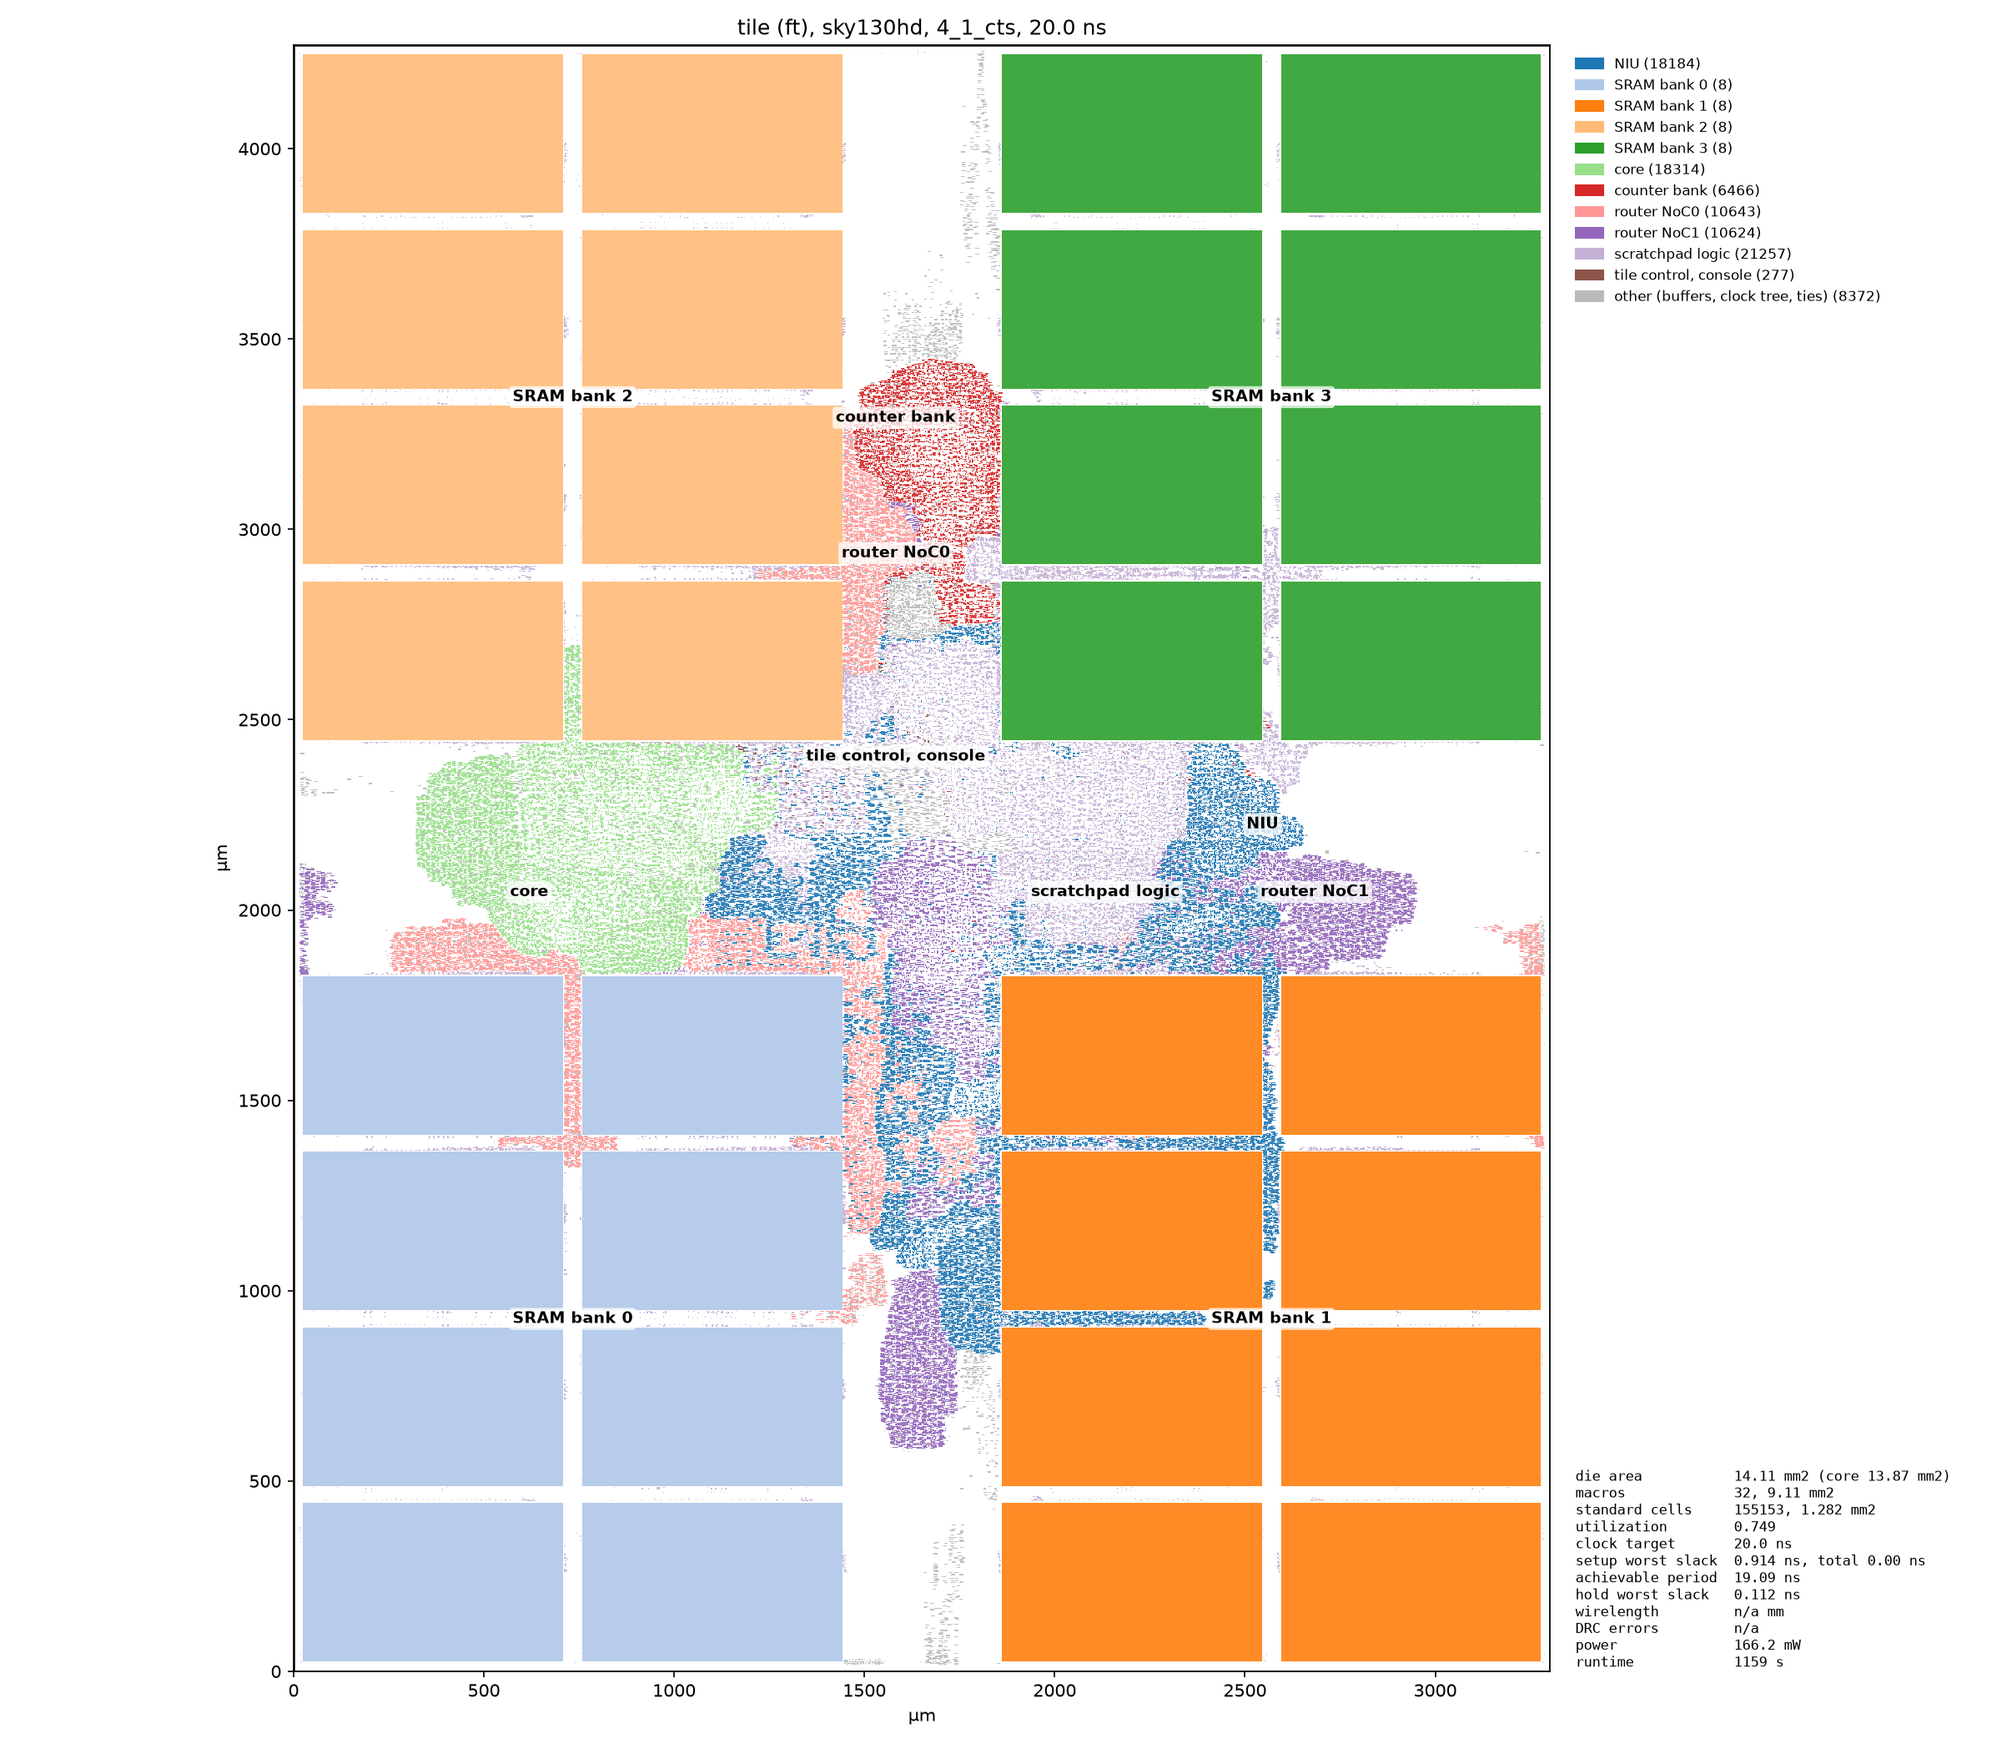
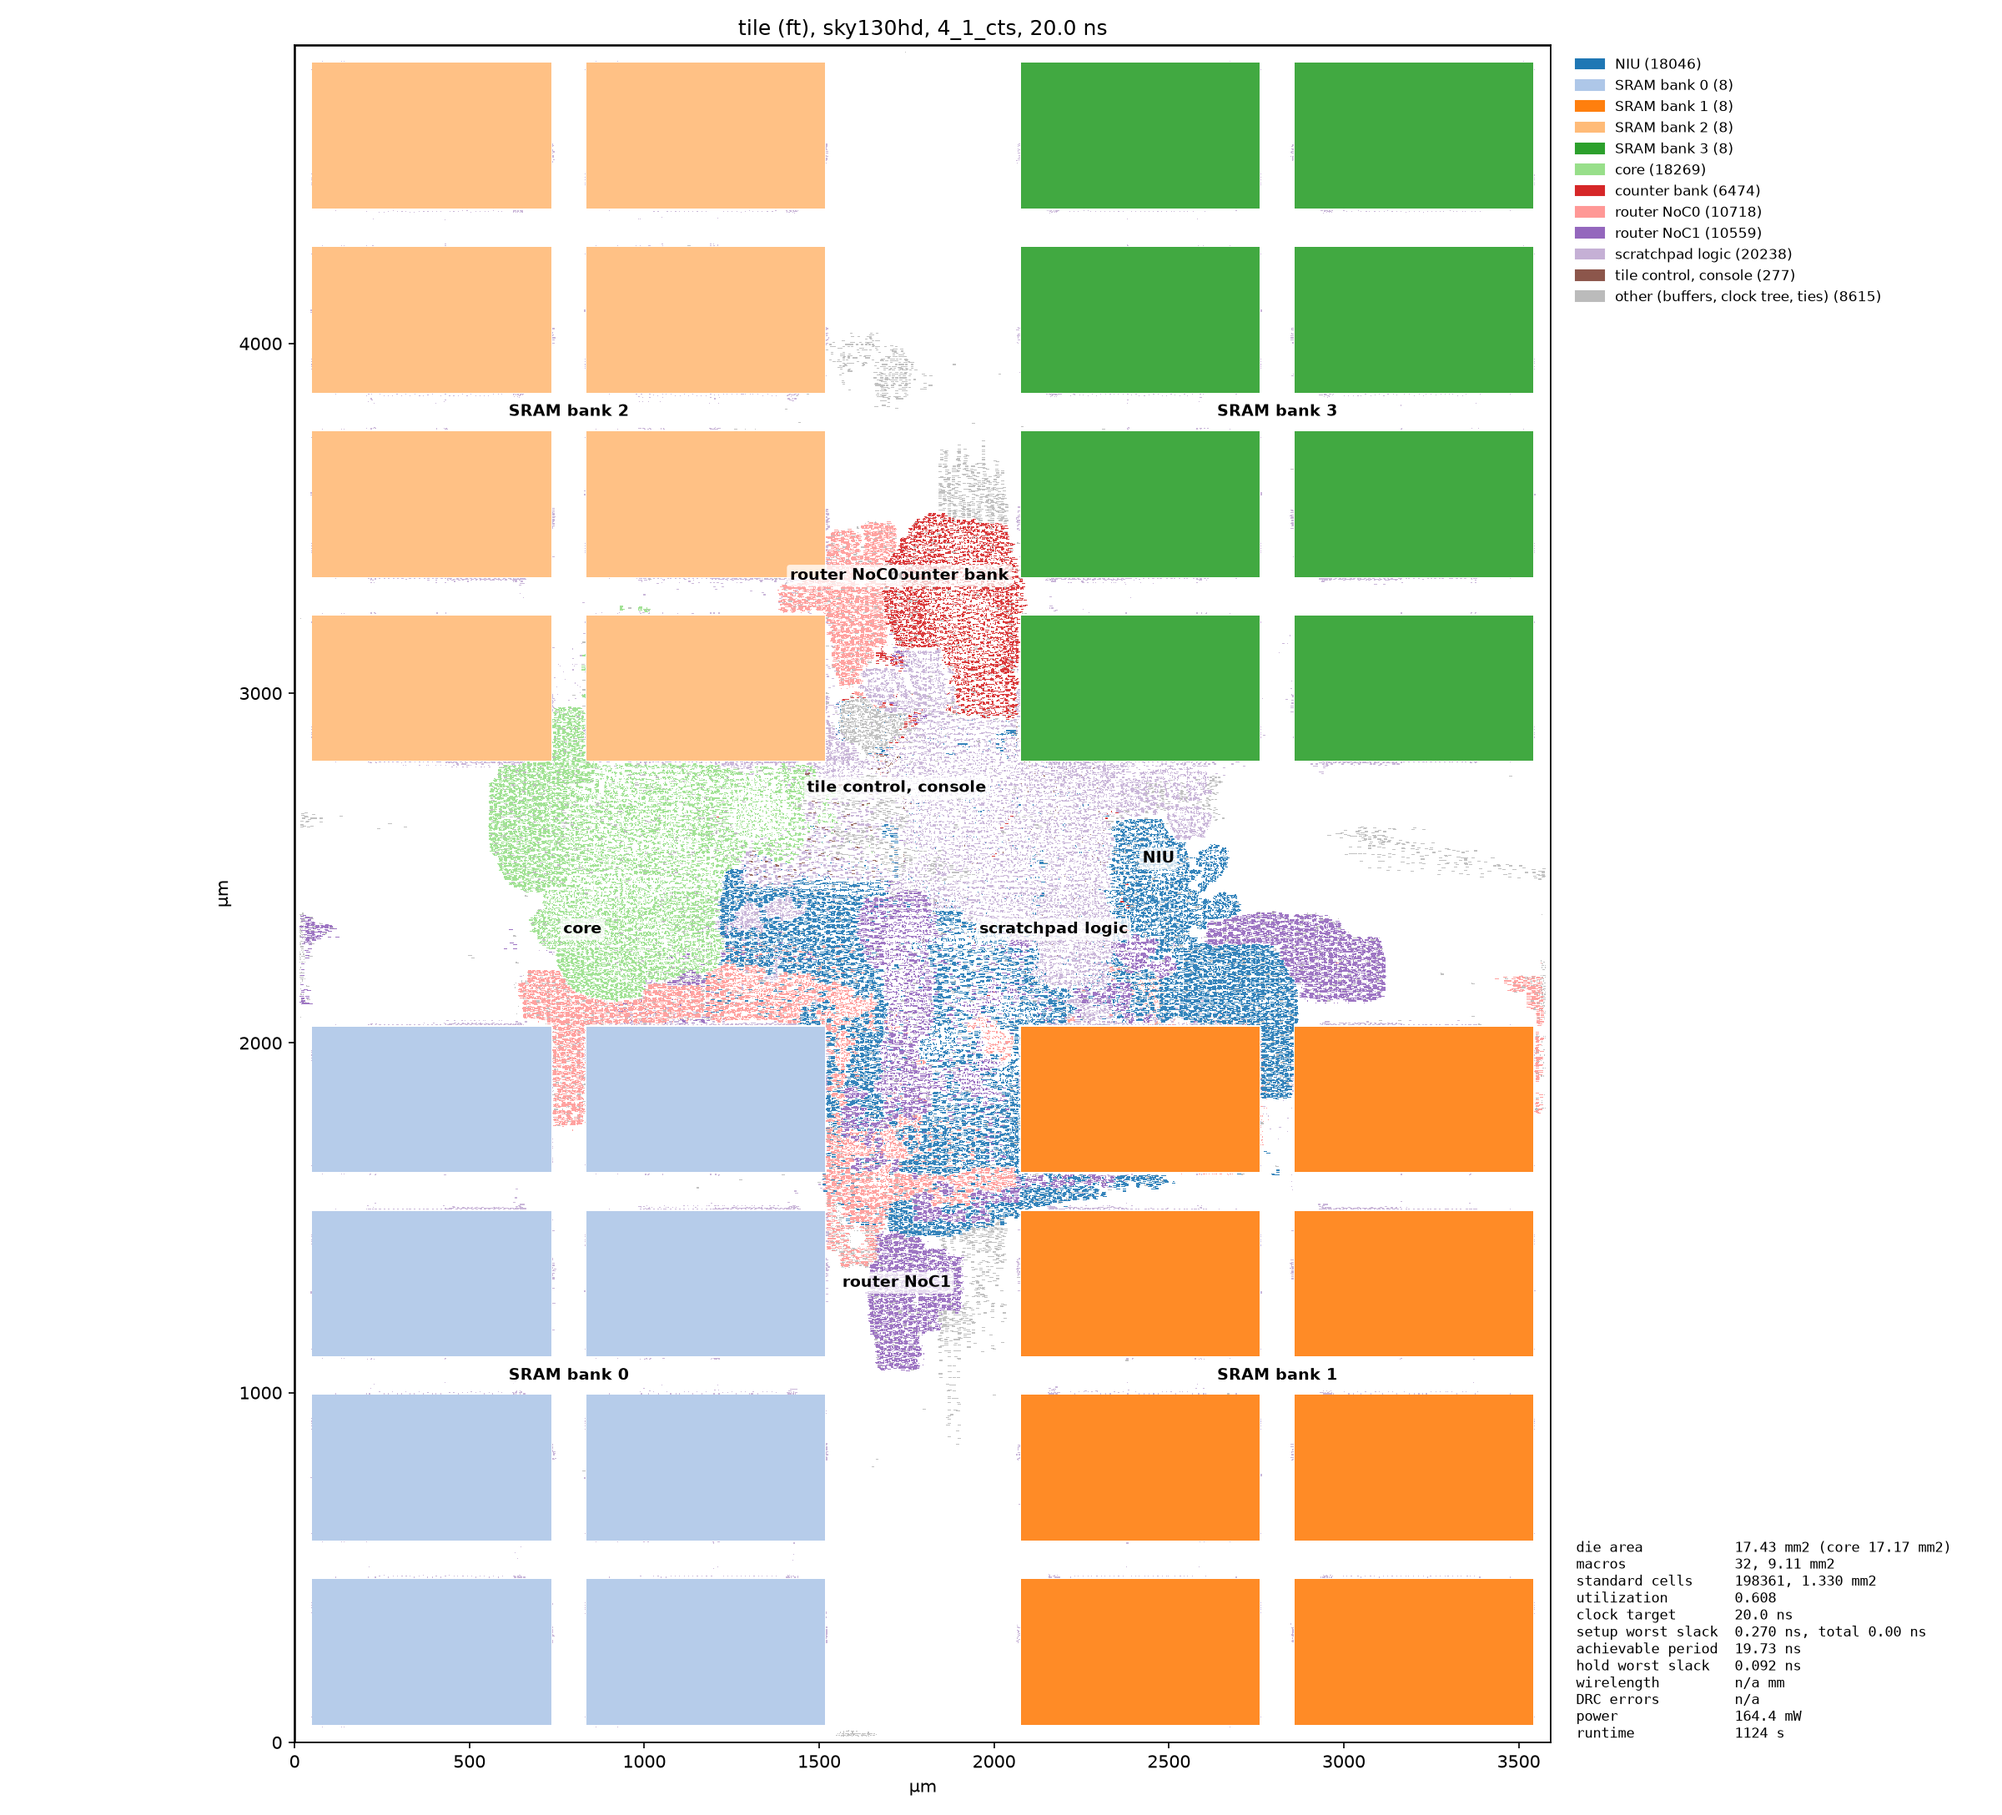
M5: tile routing closure attempts, recorded
Global routing of the tile does not converge: about 0.6% overflow remains,
three quarters of it over the macros (OpenRAM macros obstruct met1-met4,
so spilled wires find only met5 there), and detailed routing rejects the
incomplete guides of an overflowed global route. Wider arms (640/860 um) and
macro-row gaps (110 um) did not fix it (tile 17.4 mm2, still meets 20 ns at
CTS); the analysis and the untried levers are in SPEC.md. The cross floorplan
keeps a 35 um macro inset so every edge gap holds a power strap.

Changed region(s): [[0.125, 0.0, 0.9688, 0.9952]]

diff --git a/SPEC.md b/SPEC.md
@@ -441,7 +441,7 @@ Progress (2026-11-18): M3 done. Both planes run in the SoC with the plane fixed 
 
 Progress (2026-11-18): M4 done; buffer columns deferred (none for now, analysis in Open decisions). Performance model v1 simulates the network flit by flit and matches the RTL network cycle-exactly (every flit's send and ejection cycle, regression). Head-of-line blocking: B, C, deeper buffers, the critical bubble scheme and dateline VCs prototyped on 4x4 and 8x8; none wins across patterns (removing head-of-line blocking exposes bubble-rule injection starvation), so the router is unchanged. The SoC runs at 8x8 (multithreaded model, 4.7 kHz at 8 threads with idle cores); memcpy, Cannon, the new stencil and all-reduce kernels are bit-exact there, with exact per-link counts and the model within 1.5% for compute-bound kernels. Weak scaling 4x4 to 8x8: stencil 99.7%, Cannon 98.3%. Kernel load by a software tree: 1.6x to 2.5x faster at 8x8. Area: the tool image carries sky130 standard cells; a tile is 0.77 mm² of logic plus about 9 mm² of OpenRAM SRAM for its 64 KB.
 
-Progress (2026-11-19): M5 in progress. The tool image builds OpenROAD from source; the tile is placed in sky130 with its 64 KB as 32 OpenRAM macros (hand "cross" floorplan, 14.1 mm², meets 20 ns at CTS after two zero-cycle fixes to the core → scratchpad path). Hard tiles get feedthroughs, wired per placed order by soc_top FT_ORDER (verified transparent by the regression). Logical against folded order on 4x4: longest link 19.4 against 6.1 mm, worst link path 14.9 against 10.5 ns; no register slices needed at the tile's clock in either order. Next: the routed tile and the M7 baseline table.
+Progress (2026-11-19): M5 in progress. The tool image builds OpenROAD from source; the tile is placed in sky130 with its 64 KB as 32 OpenRAM macros (hand "cross" floorplan, 14.1 mm², meets 20 ns at CTS after two zero-cycle fixes to the core → scratchpad path). Hard tiles get feedthroughs, wired per placed order by soc_top FT_ORDER (verified transparent by the regression). Logical against folded order on 4x4: longest link 19.4 against 6.1 mm, worst link path 14.9 against 10.5 ns; no register slices needed at the tile's clock in either order. Tile routing does not close in sky130 yet (0.6% global-route overflow over the macros; analysis in the M5 list), so the routed tile and the activity-based energy numbers for the M7 baseline stay open.
 
 Keep every exit test in the regression once it passes, so later milestones cannot silently break earlier ones.
 
@@ -627,7 +627,9 @@ Each microtask is small (about a day or two) and ends in something tangible: a t
 ### M5: place and route
 
 - [x] OpenROAD and the sky130 PDK in the tool image → versions pinned, CI builds the image (2026-11-18: ORFS pinned to the commit of an official daily image, 26Q4-507-g2ba1223c8, and OpenROAD to the commit it pins; the 26Q4 tag no longer builds, a Bazel dependency's GitHub archive changed checksum. OpenROAD is a command-line build, about 50 minutes in its own image stage. The PDK adds the OpenRAM macros. Scratchpad banks for place and route (`spm_bank_sky130`, under `SPM_SKY130`): eight sky130_sram_2kbyte_1rw1r_32x512_8 per bank, four lanes wide and two deep, checked by `tb_spm_sky130` on OpenRAM's own model. The macro drives read data after the falling edge and does not hold it, so `spm_bank` now promises read data in the cycle after a read only, and simulation builds invert it in every other cycle; the whole regression passes with that)
-- [ ] OpenROAD flow for one tile (scratchpad banks as macros) → placed and routed, area and timing report stored (2026-11-19: placed and clock-tree synthesized, detailed route running; `scripts/pnr.py tile --floorplan cross`, reports and layout images in build/pnr, images in docs/img/m5. The ORFS macro placer put the logic in one strip: 16.8 mm², −3.0 ns at 20 ns. The hand "cross" floorplan (`pnr/tile/cross.tcl`: a bank of eight macros per corner, mirrored so the pins face the channels, the logic in a cross of channels, X links entering the horizontal arm, Y links the vertical one) meets 20 ns: 13.45 mm², 14.1 mm² with the feedthrough pins (832 pins per arm end, horizontal arm 620 µm). Tile at CTS, 20 ns: 155k cells, 1.28 mm² of standard cells, 9.11 mm² of macros, worst slack +0.91 ns (19.1 ns), 166 mW estimated. Critical path: core → bank arbiter → grant → SRAM write data, after the two zero-cycle fixes (counter events registered, atomic adder off the grant path); the next lever is a skid buffer on the core's request, deferred)
+- [ ] OpenROAD flow for one tile (scratchpad banks as macros) → placed and routed, area and timing report stored (2026-11-19: placed and clock-tree synthesized, detailed route running; `scripts/pnr.py tile --floorplan cross`, reports and layout images in build/pnr, images in docs/img/m5. The ORFS macro placer put the logic in one strip: 16.8 mm², −3.0 ns at 20 ns. The hand "cross" floorplan (`pnr/tile/cross.tcl`: a bank of eight macros per corner, mirrored so the pins face the channels, the logic in a cross of channels, X links entering the horizontal arm, Y links the vertical one) meets 20 ns: 13.45 mm², 14.1 mm² with the feedthrough pins (832 pins per arm end, horizontal arm 620 µm). Tile at CTS, 20 ns: 155k cells, 1.28 mm² of standard cells, 9.11 mm² of macros, worst slack +0.91 ns (19.1 ns), 166 mW estimated. Critical path: core → bank arbiter → grant → SRAM write data, after the two zero-cycle fixes (counter events registered, atomic adder off the grant path); the next lever is a skid buffer on the core's request, deferred.
+
+  Routing does not close yet (2026-11-19). Global routing leaves about 0.6% overflow however long it iterates (30 iterations, then again after relaxing the clock nets' spacing), and detailed routing refuses guides that global routing could not complete. Tried: arms 420/620 → 640/860 µm, gaps between macro rows 45 → 110 µm (tile 14.1 → 17.4 mm², still +0.27 ns at CTS). Three quarters of the overflow sits over the macros: the OpenRAM macros obstruct met1–met4 entirely, so wires that spill out of the full arms (scratchpad crossbar nets to the four corner banks, router and NIU nets) find only met5, horizontal, between power straps, and no vertical layer for vias. Levers, not tried: banks next to the logic instead of in the corners (two macro columns per side, logic between them), fewer wires to the banks (the seven-port crossbar fans 128-bit data to every bank), a lower placement density, or a PDK with SRAM macros that leave a vertical layer free. sky130 answered the floorplan questions (area, fold); a routed tile is not needed for M6, so this stays open until a later pass)
 - [ ] Achievable fabric clock and link slices needed → recorded per slice depth (links: none needed at the tile's clock in either order; logical order needs a slice on its wraparounds below about 15 ns, folded order below about 10.5 ns, from the worst link paths below. The fabric clock is the tile's, final number with the routed tile)
 - [x] Grid floorplan in logical order (4x4 plus the I/O row) → longest wire and timing recorded (`scripts/pnr.py grid --order logical`: the tile's abstract as a hard macro, 400 µm channels, the I/O row fenced into its own 800 µm band, global routing; 308.6 mm². Longest link 19.4 mm (NoC1 north from row 0 to the I/O row through four tiles), worst link path 14.9 ns at 20 ns)
 - [x] Grid floorplan in folded order → comparison with logical order recorded (table below)
@@ -643,7 +645,7 @@ Each microtask is small (about a day or two) and ends in something tangible: a t
   | Register slices needed | none at 20 ns; below about 15 ns | none at 20 ns; below about 10.5 ns |
 
   The fold shortens the longest wire 3.2x and the longest link path by 4.4 ns (about 0.3 ns per mm of repeated wire, including the tiles' clock-to-out and input logic). Images: `docs/img/m5/grid_logical_s0.png`, `grid_folded_s0.png` (tiles and the I/O row coloured and labelled, one flyline per link through repeaters and feedthroughs), `tile_ft.png`. Caveats: the dense I/O-row fence keeps 0.3% global-route overflow, and its routers' internal paths fail at 20 ns without the repair after global routing, which the study skips for memory (22 GB; a taller band would fix both); reset is not timed as a network (a real design synchronizes reset per tile); the tile abstract is from the CTS stage.
-- [ ] Baseline numbers (area, clock, energy estimate per flit and per MAC) → table recorded for M7
+- [ ] Baseline numbers (area, clock, energy estimate per flit and per MAC) → table recorded for M7 (area and clock so far: tile 0.95 mm² of synthesized logic, 1.3 mm² after placement buffering, 9.11 mm² of SRAM macros, 14.1–17.4 mm² of die with the routing channels; about 19.7 ns at CTS. Energy per flit and per MAC needs switching activity from simulation (a kernel's FST with `-DTORUS_TRACE=ON` into OpenSTA's power analysis), not the flow's default activity)
 
 ### M6: FPGA port
 
